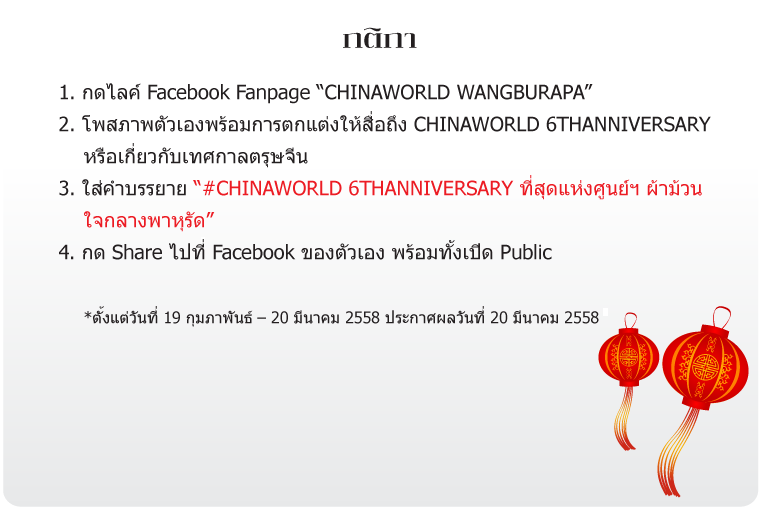
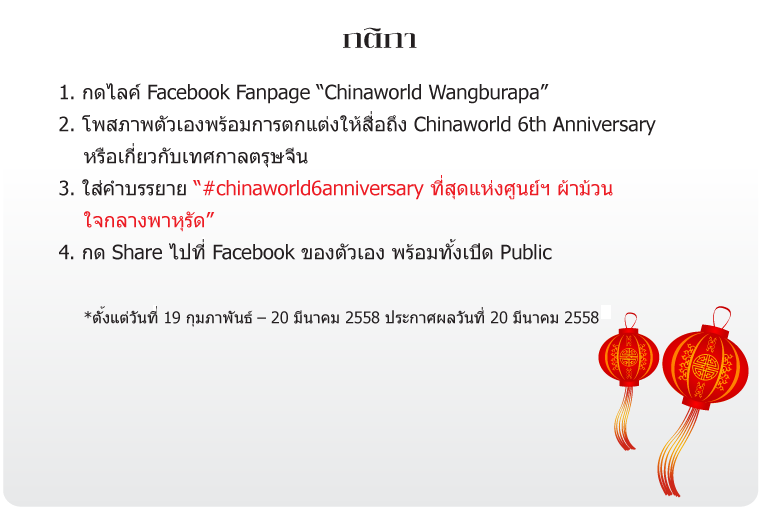
Updated some files

Changed region(s): [[0.4226, 0.1471, 0.9357, 0.2647], [0.2717, 0.3529, 0.9357, 0.3824]]

diff --git a/public/assets/js/app.js b/public/assets/js/app.js
@@ -23,80 +23,69 @@ var dataURItoBlob = function(dataURI,mime) {
 
 };
 
+window.fbAsyncInit = function() {
+    
+    try {
+
+        FB.init({
+            appId      : '439397266212203',
+            xfbml      : false,
+            version    : 'v2.2'
+        });
+
+        FB.getLoginStatus(function(response) {
+            if (response.status === 'connected') {
+                FB.api('/me',function(res){
+
+                    console.log("User ID: "+res.id);
+
+                    $('#fb-id').val(res.id);
+                    $('#fb-name').val(res.name);
+
+                    $('.loading').hide();
+                    $('.block').hide();
+
+                });
+            } else {
+                /*if(top.location.hostname != "apps.facebook.com" && (!controller.length || (controller == "app" && !method.length))){
+                    top.location.href = "https://apps.facebook.com/chinaworld_fashion/";
+                } else {*/
+                    $('.loading').hide();
+                    $('.block').hide();
+                //}
+            }
+        });
+    
+    } catch(e){
+        console.log(e);
+        /*if(top.location.hostname != "apps.facebook.com" && (!controller.length || (controller == "app" && !method.length))){
+            top.location.href = "https://apps.facebook.com/chinaworld_fashion/";
+        } else {*/
+            $('.loading').hide();
+            $('.block').hide();
+        //}
+    }
+    
+};
+
+(function(d, s, id){
+    var js, fjs = d.getElementsByTagName(s)[0];
+    if (d.getElementById(id)) {return;}
+    js = d.createElement(s); js.id = id;
+    js.src = "//connect.facebook.net/en_US/sdk.js";
+    fjs.parentNode.insertBefore(js, fjs);
+}(document, 'script', 'facebook-jssdk'));
+
 $(document).ready(function(){
 
     $('.loading').show();
     $('.block').show();
-	
-	setTimeout(function(){
-	
-		FB.getLoginStatus(function(response) {
-			if (response.status === 'connected') {
-				FB.api('/me',function(res){
-					
-					console.log("User ID: "+res.id);
-	
-					$('#fb-id').val(res.id);
-					$('#fb-name').val(res.name);
-	
-					$.ajax({
-						'url': url_base + "api/saveUser",
-						'type': "POST",
-						'dataType': 'json',
-						data: {
-							fb_id: res.id,
-							fb_name: res.name
-						},
-						success: function(res){
-							
-							$('.loading').hide();
-							$('.block').hide();
-	
-							if(res.success){
-								registered = (res.registered && (res.registered == 1 || res.registered == "1"))?true:false;
-							}
-	
-						}
-					});
-	
-				});
-			}  else {
-				FB.login(function(){
-	
-					FB.api('/me',function(res){
-						
-						console.log("User ID: "+res.id);
-	
-						$('#fb-id').val(res.id);
-						$('#fb-name').val(res.name);
-	
-						$.ajax({
-							'url': url_base + "api/saveUser",
-							'type': "POST",
-							'dataType': 'json',
-							data: {
-								fb_id: res.id,
-								fb_name: res.name
-							},
-							success: function(res){
-	
-								if(res.success){
-									registered = (res.registered && (res.registered == 1 || res.registered == "1"))?true:false;
-								}
-	
-							}
-						});
-	
-					});
-	
-				}, {scope: 'publish_actions'});
-			}
-		});
-	
-	},500);
 
     /* index */
     $('#start-button').click(function(){
+
+        $('.loading').show();
+        $('.block').show();
 
         /** **/
         /* check user login */
@@ -166,59 +155,6 @@ $(document).ready(function(){
             }
         });
         /** **/
-
-        /*FB.api('/me/likes/120717091292823',function(res){
-
-            var liked = false;
-
-            console.log(res.data);
-
-            if(res.data.length) liked = true;
-
-            if(liked){
-
-                console.log("You've already liked the page.");
-
-                if(registered)
-                    self.location.href = url_base+"app/upload";
-                else
-                    self.location.href = url_base+"app/register";
-
-            } else {
-
-                $('.block').show();
-
-                $('#like-popup').animate({
-                    opacity: 1,
-                    duration: 500
-                }).show();
-
-                var checkLikeInterval = setInterval(function(){
-
-                    FB.api('/me/likes/120717091292823',function(res){
-
-                        var liked = false;
-
-                        console.log(res.data);
-
-                        if(res.data.length) liked = true;
-
-                        if(liked){
-
-                            if(registered)
-                                self.location.href = url_base+"app/upload";
-                            else
-                                self.location.href = url_base+"app/register";
-
-                        } else
-                            console.log("You haven't liked the page yet.");
-
-                    });
-
-                },1000);
-            }
-
-        });*/
 
     });
 

diff --git a/fuel/app/views/template_app.php b/fuel/app/views/template_app.php
@@ -31,28 +31,11 @@
         <script src="<?php echo Uri::base(); ?>public/assets/js/bootstrap.min.js"></script>
         <!-- facebook -->
         <script src="//connect.facebook.net/en_US/sdk.js"></script>
-        <script>
-
-            window.fbAsyncInit = function() {
-                FB.init({
-                    appId      : '439397266212203',
-                    xfbml      : true,
-                    version    : 'v2.2'
-                });
-            };
-
-            (function(d, s, id){
-                var js, fjs = d.getElementsByTagName(s)[0];
-                if (d.getElementById(id)) {return;}
-                js = d.createElement(s); js.id = id;
-                js.src = "//connect.facebook.net/en_US/sdk.js";
-                fjs.parentNode.insertBefore(js, fjs);
-            }(document, 'script', 'facebook-jssdk'));
-
-        </script>
         <!-- app -->
         <script type="text/javascript">
             var url_base = "<?php echo Uri::base(); ?>";
+            var controller = "<?php echo Uri::segment(1); ?>";
+            var method = "<?php echo Uri::segment(2); ?>";
         </script>
         <script src="<?php echo Uri::base(); ?>public/assets/js/app.js?ts=<?php echo date('YmdHis'); ?>"></script>
     </body>

diff --git a/fuel/app/views/app/upload.php b/fuel/app/views/app/upload.php
@@ -31,7 +31,7 @@
                 <form class="form-horizontal" action="" method="post" enctype="multipart/form-data" onsubmit="return false;">
                     <input type="hidden" name="fb_id" id="fb-id" value="" />
                     <input type="hidden" name="fb_name" id="fb-name" value="" />
-                    <textarea id="message" class="form-control" style="width: 445px; height: 144px;" placeholder="ใส่คำบรรยายภาพของคุณ..."> #CHINAWORLD 6THANNIVERSARY ที่สุดแห่งศูนย์ฯ ผ้าม้วน ใจกลางพาหุรัด</textarea>
+                    <textarea id="message" class="form-control" style="width: 445px; height: 144px;" placeholder="ใส่คำบรรยายภาพของคุณ..."> #chinaworld6anniversary ที่สุดแห่งศูนย์ฯ ผ้าม้วน ใจกลางพาหุรัด</textarea>
                     <input type="file" id="photo-file" accept="image/*" style="display: none;" />
                     <p class="white-space"></p>
                     <a id="submit-button" class="pull-right" href="javascript:void(0);">
